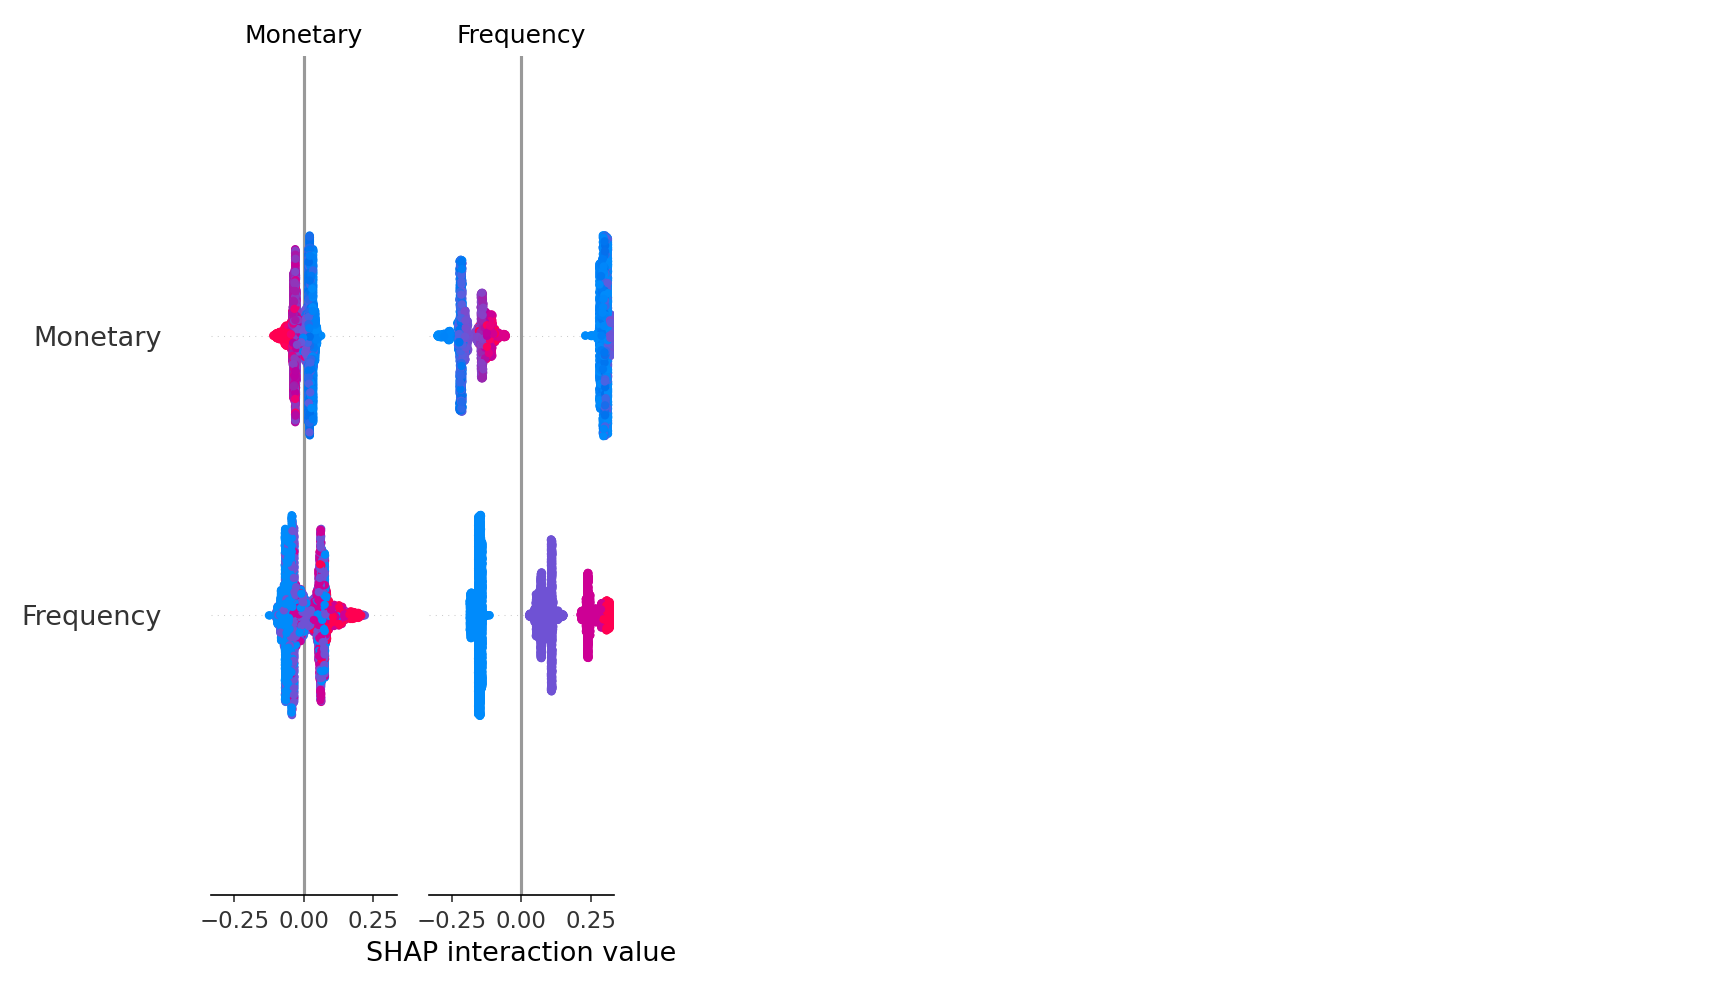
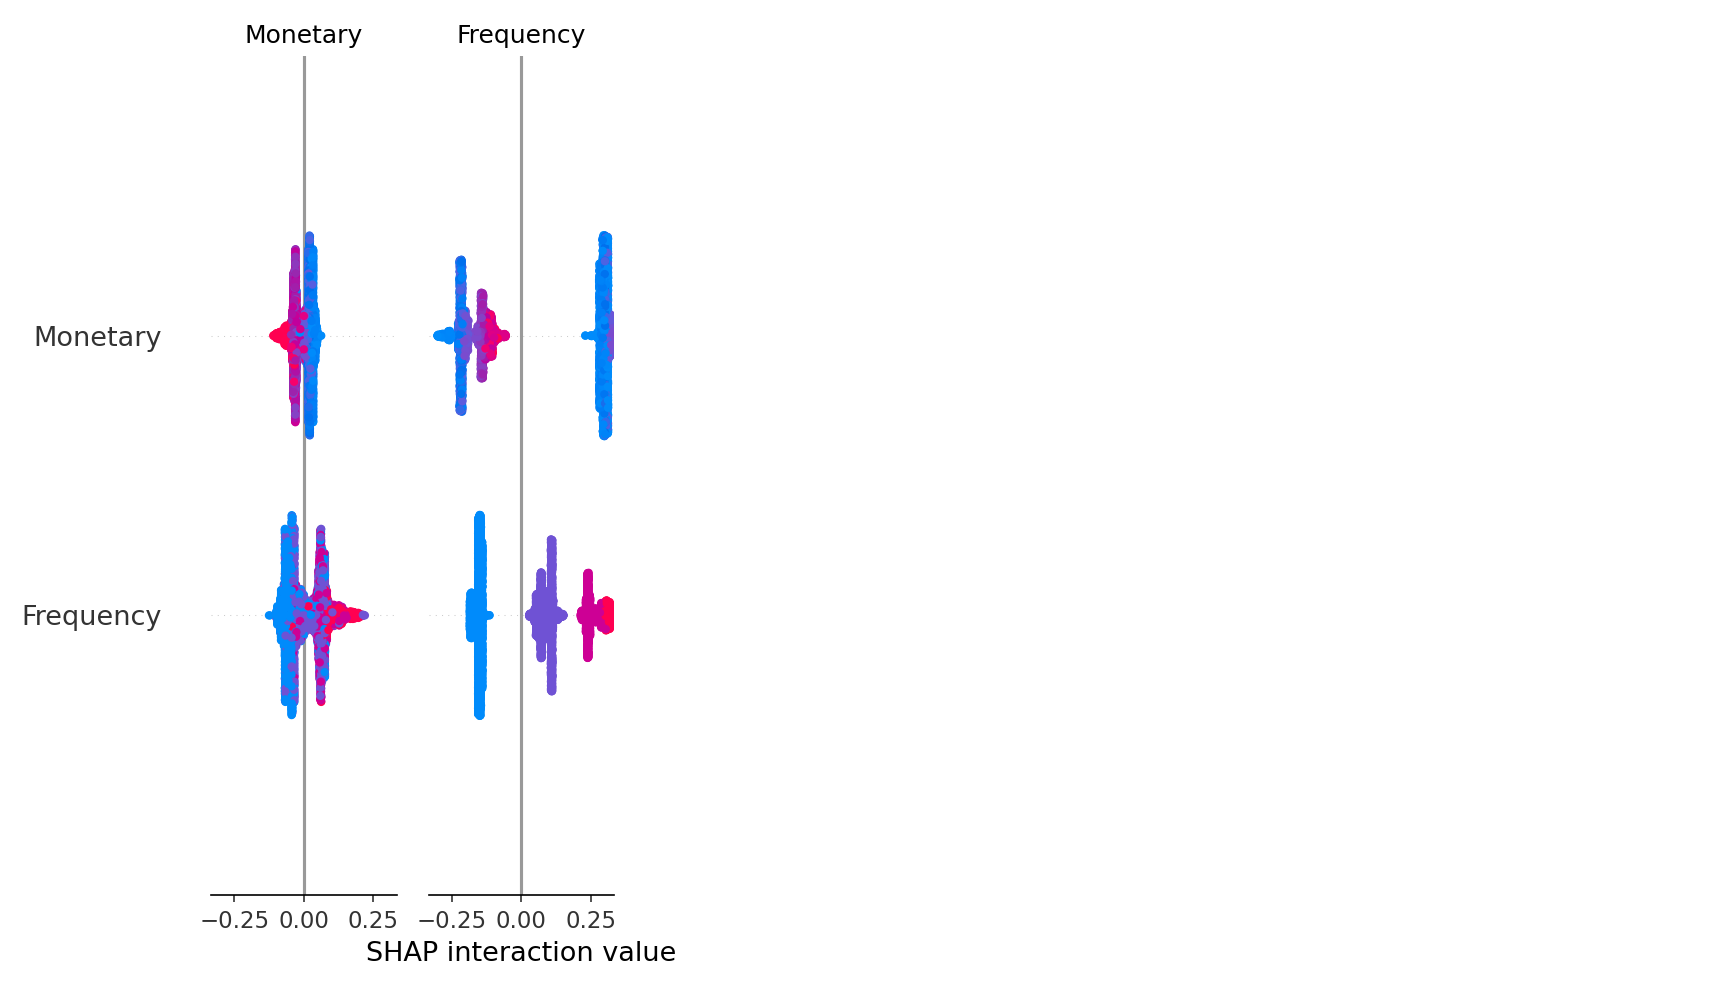
updated

diff --git a/app/pages/5_📈_Model_Metrics.py b/app/pages/5_📈_Model_Metrics.py
@@ -43,32 +43,6 @@ if os.path.exists(metrics_path):
     c4.metric("F1 Score",      f"{m.get('f1_score', '—'):.1%}")
     c5.metric("ROC-AUC",       f"{m.get('roc_auc', '—'):.4f}")
 
-    st.markdown("")
-    cv_col1, cv_col2 = st.columns(2)
-    st.markdown("")
-    cv_col1, cv_col2 = st.columns(2)
-    
-    cv_mean = m.get('cv_f1_mean')
-    cv_std = m.get('cv_f1_std')
-    baseline = m.get('baseline_f1_050')
-
-    cv_text = f"{cv_mean:.4f} ± {cv_std:.4f}" if cv_mean is not None and cv_std is not None else "—"
-    base_text = f"{baseline:.4f}" if baseline is not None else "—"
-
-    cv_col1.metric(
-        "5-Fold CV F1 (mean ± std)",
-        cv_text,
-        help="Cross-validation gives a more reliable estimate than a single train/test split.",
-    )
-    cv_col2.metric(
-        "Baseline F1 (threshold 0.50)",
-        base_text,
-        help="F1 at standard 0.50 threshold — lower than aggressive threshold because recall is not maximised.",
-    )
-    st.markdown("---")
-else:
-    st.info("ℹ `metrics.json` not found. Run `models/3_model_training.py` to generate live metrics.")
-    st.markdown("---")
 
 # ── SECTION 1: K-MEANS ───────────────────────────────────────
 st.header("1. Customer Segmentation (Unsupervised Learning)")
@@ -139,18 +113,6 @@ if path:
     st.image(Image.open(path), caption="Gini Feature Importance — Churn Prediction Model", use_container_width=True)
 else:
     st.info(_missing_msg)
-
-
-with st.expander("🔬 Why are Recency, TotalQuantity, and AvgOrderValue not in the churn model?"):
-    st.markdown("""
-    | Feature | Status | Reason |
-    |---|---|---|
-    | **Recency** | ❌ Excluded | **Data leakage** — the churn label is derived directly from Recency (customers beyond 70th percentile are labelled churned). Including it gives the model near-perfect accuracy for a trivial reason. |
-    | **TotalQuantity** | ❌ Excluded | Pearson correlation with Frequency > 0.90 — it adds no marginal predictive information beyond what Frequency already captures. |
-    | **AvgOrderValue** | ❌ Excluded | Low Gini importance in feature selection trials. Spend per order adds little signal beyond total Monetary value when churn is the target. |
-    | **Frequency** | ✅ Used | How often a customer buys is a strong independent signal of engagement. |
-    | **Monetary** | ✅ Used | Total lifetime value captures the economic relationship with the customer. |
-    """)
 
 # ── SECTION 4: CHURN LABEL METHODOLOGY ──────────────────────
 st.markdown("---")

diff --git a/app/pages/4_🤖_Marketing_Assistant.py b/app/pages/4_🤖_Marketing_Assistant.py
@@ -25,7 +25,7 @@ if "historical_df" not in st.session_state:
 
 st.markdown("---")
 
-search_id = st.text_input("🔍 Enter Customer ID (e.g., 17850):")
+search_id = st.text_input("🔍 Enter Customer ID :")
 
 if st.button("Fetch Live Data", type="primary"):
     if "active_customer" in st.session_state:
